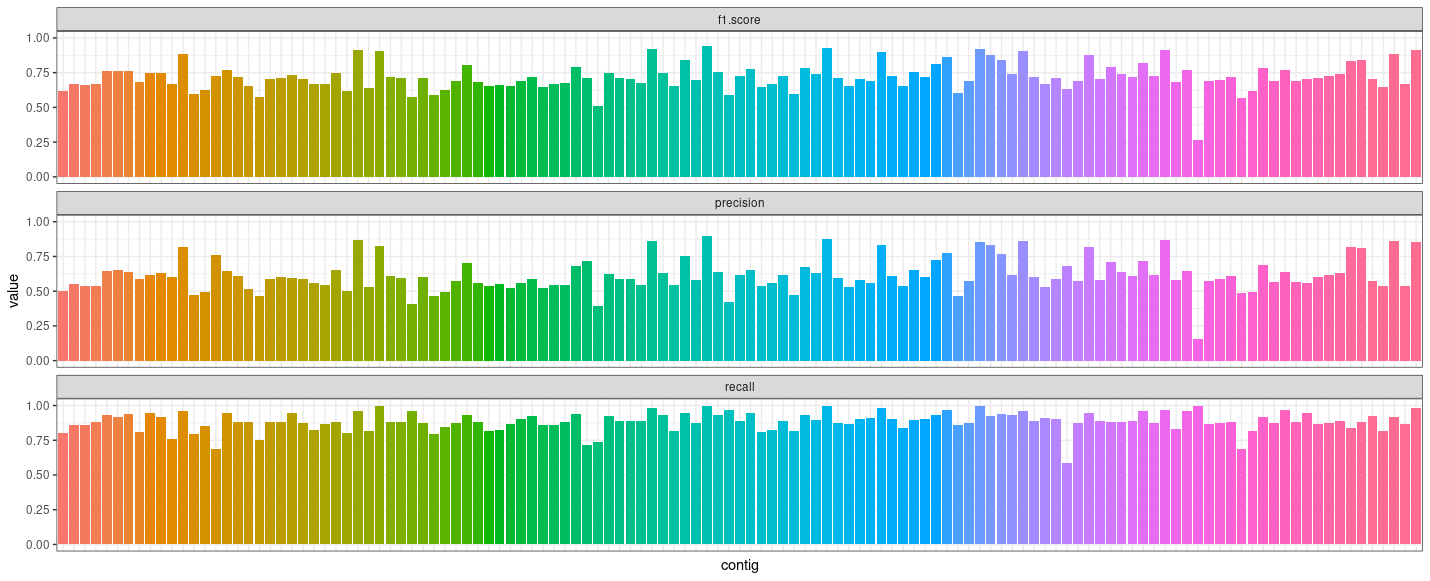
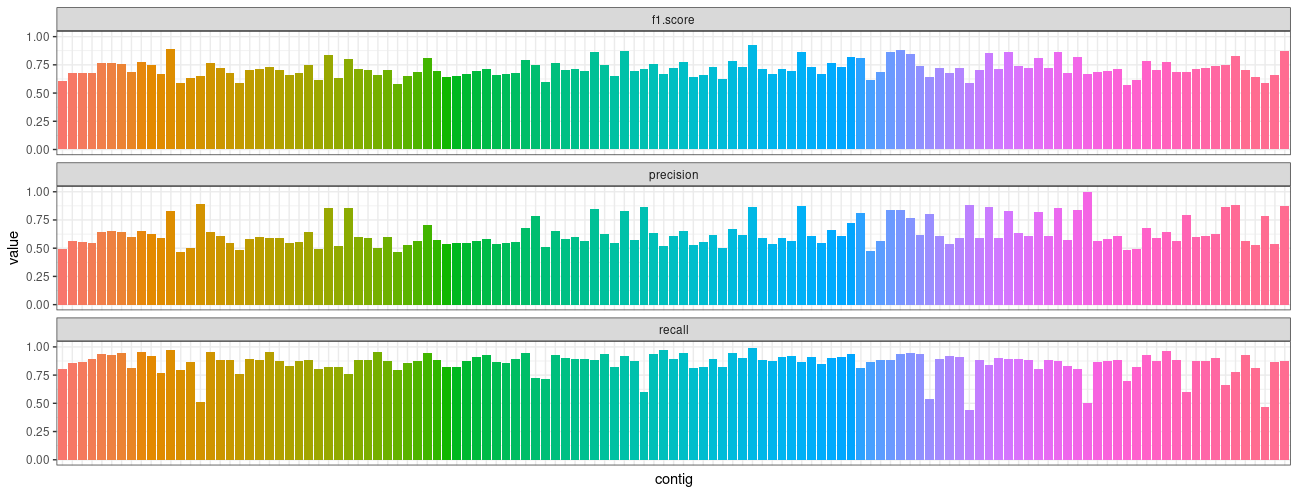
add `vcfbub | vcfwave` to the small_variants_evaluation.rst tutorial [skip ci]

Changed region(s): [[0.0, 0.0, 1.0, 1.0]]

diff --git a/docs/rst/tutorials/small_variants_evaluation.rst b/docs/rst/tutorials/small_variants_evaluation.rst
@@ -90,6 +90,15 @@ To call variants for each contig, execute:
 
 ``-H '?'`` avoids managing the path name hierarchy when calling variants, then emitting variants for each contig.
 
+To filter variants (by using nesting information from the pangenome graph) and realign reference and alternate alleles, execute:
+
+.. code-block:: bash
+
+    vcfbub -l 0 -a 100000 --input HPRCy1.MHC.s10k.p95.output/HPRCy1.MHC.fa.gz.39ffa23.e34d4cd.be6be64.smooth.final.chm13.vcf.gz | \
+        $RUN_VCFWAVE -I 1000 -t 48 | bgzip -@ 48 \
+        > HPRCy1.MHC.s10k.p95.output/HPRCy1.MHC.fa.gz.39ffa23.e34d4cd.be6be64.smooth.final.chm13.vcfbub.a100k.wave.vcf.gz
+
+
 -------------------------
 Graph statistics
 -------------------------
@@ -154,6 +163,7 @@ Using the ``nucmer2vcf.R`` script, generate VCF files for each sequence with res
         tabix $PREFIX.vcf.gz
     done
 
+
 Take SNPs from the PGGB VCF file:
 
 .. code-block:: bash
@@ -165,7 +175,7 @@ Take SNPs from the PGGB VCF file:
         echo $CONTIG
 
         bash vcf_preprocess.sh \
-            HPRCy1.MHC.s10k.p95.output/*.vcf.gz \
+            HPRCy1.MHC.s10k.p95.output/*.vcfbub.a100k.wave.vcf.gz \
             $CONTIG \
             1 \
             $REF
@@ -192,7 +202,7 @@ Compare nucmer-based SNPs with PGGB-based SNPs:
         rtg vcfeval \
             -t $REFSDF \
             -b $PREFIX.vcf.gz \
-            -c HPRCy1.MHC.s10k.p95.output/HPRCy1.MHC.fa.gz.*.smooth.final.chm13.bub100k.waved.${CONTIG}.max1.vcf.gz \
+            -c HPRCy1.MHC.s10k.p95.output/HPRCy1.MHC.fa.gz.*.smooth.final.chm13.vcfbub.a100k.wave.${CONTIG}.max1.vcf.gz \
             -T 16 \
             -o vcfeval/${CONTIG}
     done
@@ -201,6 +211,7 @@ Collect statistics:
 
 .. code-block:: bash
 
+    cd vcfeval
     (echo contig precision recall f1.score; grep None */*txt | sed 's,/summary.txt:,,' | tr -s ' ' | cut -f 1,7,8,9 -d ' ' ) | tr ' ' '\t' > statistics.tsv
 
 Plot statistics:
